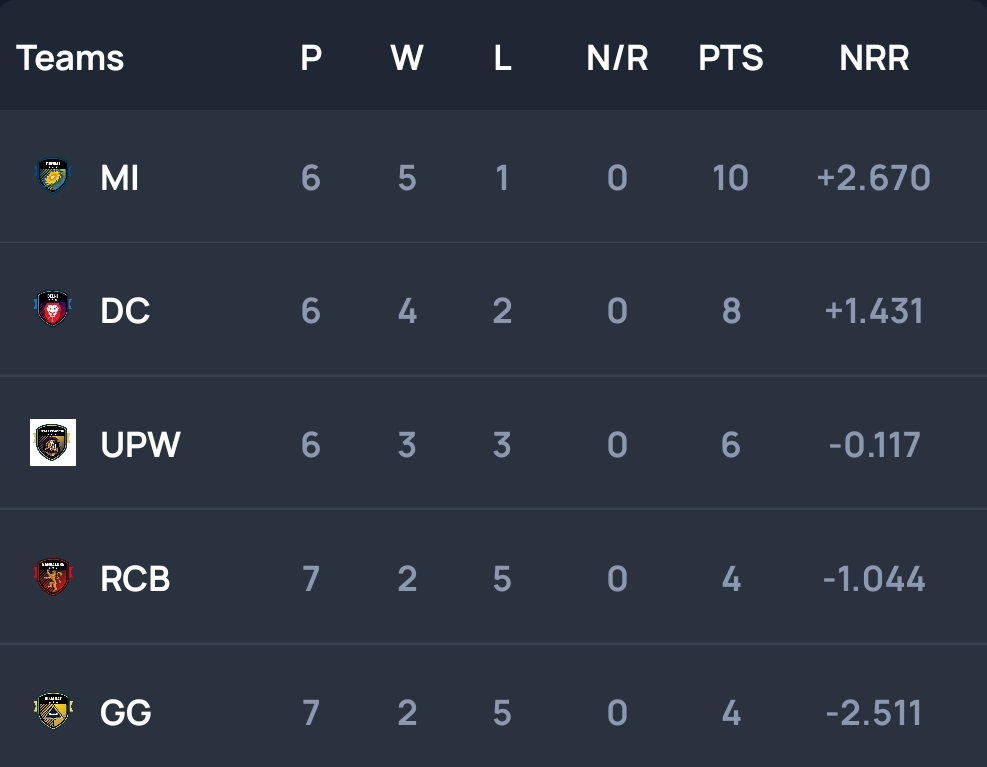
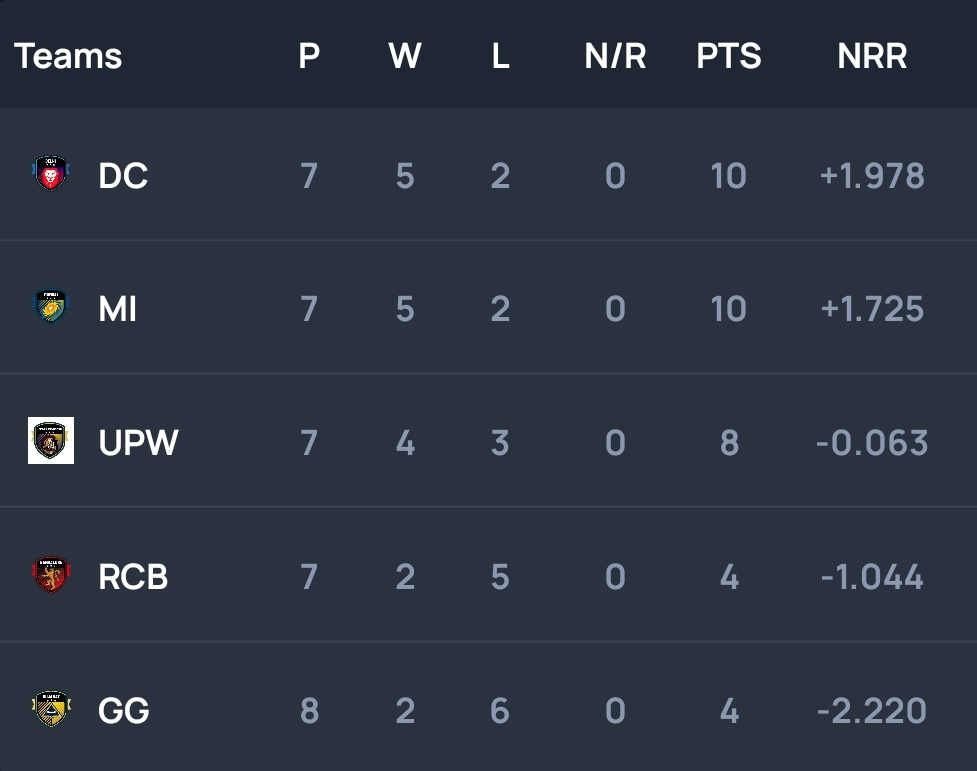
changes 9

diff --git a/index.html b/index.html
@@ -502,23 +502,21 @@
         <div class="modal blue-grey darken-4 white-text" id="wpl18">
           <div class="modal-content">
             <h6 class="white-text"><b>TOSS</b>:DC opted to field</h6>
-            <iframe src="https://www.cricket.com/match-score/221925/scorecard" width="100%" height="3000px"
-              scrolling="no"></iframe>
             <h5 class="amber-text text-accent-2"><b>MI</b></h5>
-            <!-- <img src="images/wpl18/1.jpg" width="100%" class="responsive-img">
+            <img src="images/wpl18/1.jpg" width="100%" class="responsive-img">
             <img src="images/wpl18/2.jpg" width="100%" class="responsive-img">
-            <img src="images/wpl18/3.jpg" width="100%" class="responsive-img"> -->
+            <img src="images/wpl18/3.jpg" width="100%" class="responsive-img">
             <h5 class="amber-text text-accent-2"><b>DC</b></h5>
-            <!-- <img src="images/wpl18/4.jpg" width="100%" class="responsive-img">
+            <img src="images/wpl18/4.jpg" width="100%" class="responsive-img">
             <img src="images/wpl18/5.jpg" width="100%" class="responsive-img">
-            <img src="images/wpl18/6.jpg" width="100%" class="responsive-img"> -->
+            <img src="images/wpl18/6.jpg" width="100%" class="responsive-img">
           </div>
         </div>
         <div class="modal blue-grey darken-4 white-text" id="wpl19">
           <div class="modal-content">
-            <h6 class="white-text"><b>TOSS</b>: opted to </h6>
-            <!-- <iframe src="https://www.cricket.com/match-score/221926/scorecard" width="100%" height="3000px"
-                scrolling="no"></iframe> -->
+            <h6 class="white-text"><b>TOSS</b>:MI opted to field</h6>
+            <iframe src="https://www.cricket.com/match-score/221926/scorecard" width="100%" height="3000px"
+              scrolling="no"></iframe>
             <h5 class="amber-text text-accent-2"><b>RCB</b></h5>
             <!-- <img src="images/wpl19/1.jpg" width="100%" class="responsive-img">
             <img src="images/wpl19/2.jpg" width="100%" class="responsive-img">
@@ -532,8 +530,8 @@
         <div class="modal blue-grey darken-4 white-text" id="wpl20">
           <div class="modal-content">
             <h6 class="white-text"><b>TOSS</b>: opted to </h6>
-            <!-- <iframe src="https://www.cricket.com/match-score/221927/scorecard" width="100%" height="3000px"
-                scrolling="no"></iframe> -->
+            <iframe src="https://www.cricket.com/match-score/221927/scorecard" width="100%" height="3000px"
+              scrolling="no"></iframe>
             <h5 class="amber-text text-accent-2"><b>UPW</b></h5>
             <!-- <img src="images/wpl20/1.jpg" width="100%" class="responsive-img">
             <img src="images/wpl20/2.jpg" width="100%" class="responsive-img">
@@ -797,7 +795,7 @@
               <li>
                 <div class="collapsible-header blue-grey darken-4"><b>WPL POINTS TABLE</b></div>
                 <div class="collapsible-body">
-                  <h6 class="white-text"><b>LAST UPDATE</b>: After Match 16</h6>
+                  <h6 class="white-text"><b>LAST UPDATE</b>: After Match 18</h6>
                   <img src="wplpt.jpg" class="responsive-img">
                 </div>
               </li>
@@ -830,8 +828,8 @@
                 <div class="collapsible-header pink accent-3 white-text active"><b>WATCH WPL LIVE</b></div>
                 <span id="view"></span>
                 <div class="collapsible-body">
-                  <iframe src="https://www.jiocinema.com/sports/mumbai-indians-vs-delhi-capitals/3707423" width="100%"
-                    height="600px" scrolling="no"></iframe>
+                  <iframe src="https://www.jiocinema.com/sports/rcb-vs-mi/3707424" width="100%" height="600px"
+                    scrolling="no"></iframe>
                 </div>
               </li>
             </ul>
@@ -1054,8 +1052,7 @@
                       </h6>
                     </div>
                     <div class="card-panel blue-grey darken-4 white-text col s12 m12 l4 z-depth-2">
-                      <h6>Match 15: March 18, 15:30 IST<br><i class="fa-solid fa-map-marker-alt"></i> Navi
-                        Mumbai</h6>
+                      <h6>Match 15: March 18, 15:30 IST<br><i class="fa-solid fa-map-marker-alt"></i> Navi Mumbai</h6>
                       <hr>
                       <h6 class="col s7 m7 l7">
                         <img src="https://images.cricket.com/teams/1111_flag_safari.png" class="circle ipl">
@@ -1070,8 +1067,7 @@
                       </h6>
                     </div>
                     <div class="card-panel blue-grey darken-4 white-text col s12 m12 l4 z-depth-2">
-                      <h6>Match 16: March 18, 19:30 IST<br><i class="fa-solid fa-map-marker-alt"></i> Mumbai
-                      </h6>
+                      <h6>Match 16: March 18, 19:30 IST<br><i class="fa-solid fa-map-marker-alt"></i> Mumbai</h6>
                       <hr>
                       <h6 class="col s7 m7 l7">
                         <img src="https://images.cricket.com/teams/1105_flag_safari.png" class="circle ipl">
@@ -1086,8 +1082,7 @@
                       </h6>
                     </div>
                     <div class="card-panel blue-grey darken-4 white-text col s12 m12 l4 z-depth-2">
-                      <h6> &#10148; Match 17: March 20, 15:30 IST<br><i class="fa-solid fa-map-marker-alt"></i> Mumbai
-                      </h6>
+                      <h6>Match 17: March 20, 15:30 IST<br><i class="fa-solid fa-map-marker-alt"></i> Mumbai</h6>
                       <hr>
                       <h6 class="col s7 m7 l7">
                         <img src="https://images.cricket.com/teams/2955_flag_safari.png" class="circle ipl">
@@ -1102,23 +1097,23 @@
                       </h6>
                     </div>
                     <div class="card-panel blue-grey darken-4 white-text col s12 m12 l4 z-depth-2">
-                      <h6> &#10148; Match 18: March 20, 19:30 IST<br><i class="fa-solid fa-map-marker-alt"></i> Navi
-                        Mumbai</h6>
+                      <h6>Match 18: March 20, 19:30 IST<br><i class="fa-solid fa-map-marker-alt"></i> Navi Mumbai</h6>
                       <hr>
                       <h6 class="col s7 m7 l7">
                         <img src="https://images.cricket.com/teams/1111_flag_safari.png" class="circle ipl">
                         <b>Mumbai Indians</b></h6>
-                      <h6 class="col s5 m5 l5 transparent-text">-</h6>
+                      <h6 class="col s5 m5 l5">109/8</h6>
                       <h6 class="col s7 m7 l7">
                         <img src="https://images.cricket.com/teams/1109_flag_safari.png" class="circle ipl">
                         <b>Delhi Capitals</b></h6>
-                      <h6 class="col s5 m5 l5 transparent-text">-</h6>
-                      <h6 class="transparent-text"><b>-</b> won by -</h6>
+                      <h6 class="col s5 m5 l5">110/1 (9)</h6>
+                      <h6><b>Delhi Capitals</b> won by 9 WKTS</h6>
                       <h6><a href="#wpl18" class="oui-button modal-trigger pink accent-3 white-text">Full Scores</a>
                       </h6>
                     </div>
                     <div class="card-panel blue-grey darken-4 white-text col s12 m12 l4 z-depth-2">
-                      <h6>Match 19: March 21, 15:30 IST<br><i class="fa-solid fa-map-marker-alt"></i> Navi Mumbai</h6>
+                      <h6> &#10148; Match 19: March 21, 15:30 IST<br><i class="fa-solid fa-map-marker-alt"></i> Navi
+                        Mumbai</h6>
                       <hr>
                       <h6 class="col s7 m7 l7">
                         <img src="https://images.cricket.com/teams/1105_flag_safari.png" class="circle ipl">
@@ -1133,7 +1128,8 @@
                       </h6>
                     </div>
                     <div class="card-panel blue-grey darken-4 white-text col s12 m12 l4 z-depth-2">
-                      <h6>Match 20: March 21, 19:30 IST<br><i class="fa-solid fa-map-marker-alt"></i> Mumbai</h6>
+                      <h6> &#10148; Match 20: March 21, 19:30 IST<br><i class="fa-solid fa-map-marker-alt"></i> Mumbai
+                      </h6>
                       <hr>
                       <h6 class="col s7 m7 l7">
                         <img src="https://images.cricket.com/teams/2954_flag_safari.png" class="circle ipl">
